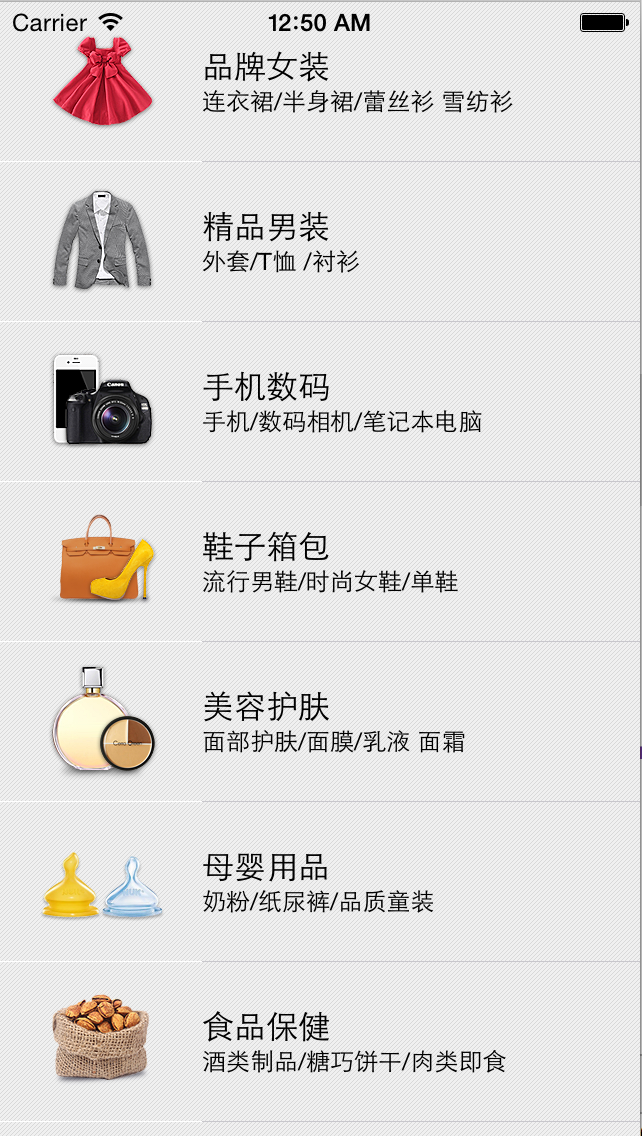
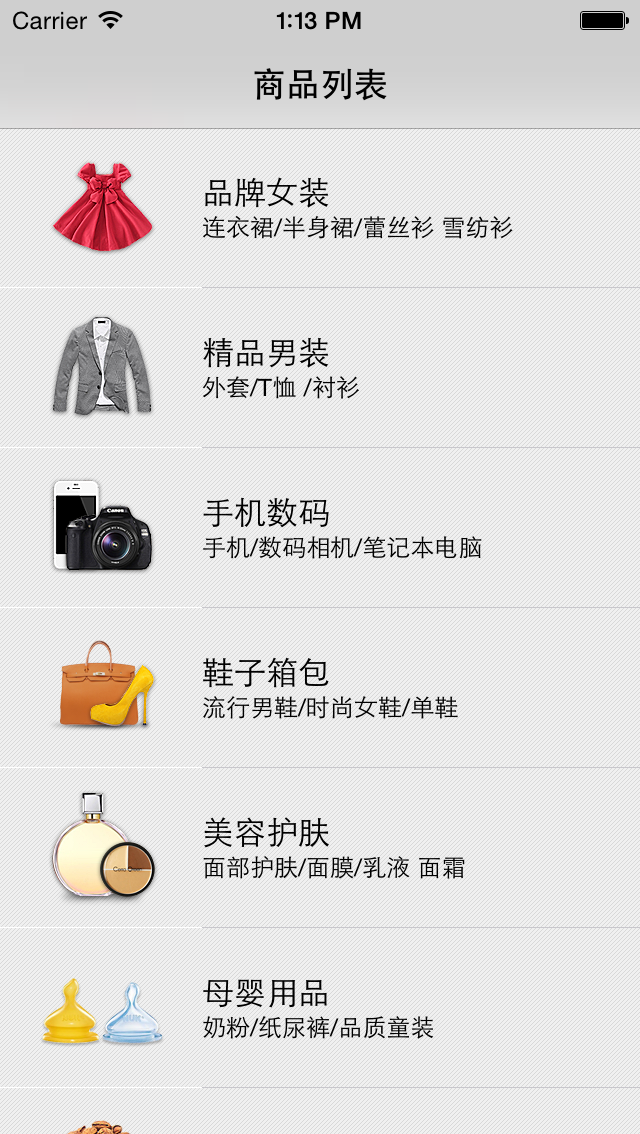
使用九宫格展示抽屉里数据

diff --git a/tianmao/Controller/ShopListViewController.m b/tianmao/Controller/ShopListViewController.m
@@ -8,10 +8,12 @@
 
 #import "ShopListViewController.h"
 #import "Shop.h"
+#import "ShopCell.h"
 
 #define kSubViewHeight 200
+#define kRow 3
 
-@interface ShopListViewController ()
+@interface ShopListViewController ()<ShopCellDelegate>
 
 @end
 
@@ -26,8 +28,8 @@
     CGRect frame = [UIScreen mainScreen].applicationFrame;
     
     self.tableView = [[UITableView alloc] initWithFrame:CGRectMake(0, 0, frame.size.width, kSubViewHeight) style:UITableViewStylePlain];
-    
-    NSLog(@"come here");
+    self.tableView.backgroundColor = [UIColor colorWithPatternImage:[UIImage imageNamed:@"tmall_bg_furley.png"]];
+    self.tableView.separatorStyle = UITableViewCellSeparatorStyleNone;
 }
 
 - (void)viewDidLoad {
@@ -37,26 +39,40 @@
 
 #pragma mark - UITableViewDataSource
 -(NSInteger)tableView:(UITableView *)tableView numberOfRowsInSection:(NSInteger)section{
-    return self.shopList.count;
+    return ((self.shopList.count + kColumn - 1) / kColumn);
 }
 
 -(UITableViewCell *)tableView:(UITableView *)tableView cellForRowAtIndexPath:(NSIndexPath *)indexPath{
     static NSString *cellId = @"cellId";
-    UITableViewCell *cell = [tableView dequeueReusableCellWithIdentifier:cellId];
+    ShopCell *cell = [tableView dequeueReusableCellWithIdentifier:cellId];
     if (cell == nil) {
-        cell = [[UITableViewCell alloc] initWithStyle:UITableViewCellStyleDefault reuseIdentifier:cellId];
+        cell = [[ShopCell alloc] initWithStyle:UITableViewCellStyleDefault reuseIdentifier:cellId];
+        cell.delegate = self;
     }
+
+    // 截出每一行所需要的Shop对象
+    NSInteger location = indexPath.row * kColumn;
+    NSInteger length = kColumn;
+    if (location + length >= self.shopList.count) {
+        length = self.shopList.count - location;
+    }
+    NSArray *parts = [self.shopList subarrayWithRange:NSMakeRange(location, length)];
     
-    Shop *s = self.shopList[indexPath.row];
-    cell.textLabel.text = s.name;
-    cell.imageView.image = s.image;
+    // 设置Shops和行号
+    [cell setShops:parts row:(int)indexPath.row];
     
     return cell;
 }
 
 #pragma mark - UITableViewDelegate
--(void)tableView:(UITableView *)tableView didSelectRowAtIndexPath:(NSIndexPath *)indexPath{
-    
+
+- (CGFloat)tableView:(UITableView *)tableView heightForRowAtIndexPath:(NSIndexPath *)indexPath {
+    return kShopCellHeight;
+}
+
+#pragma mark - ShopCellDelegate
+- (void)shop:(Shop *)shop clickAtRow:(int)row column:(int)column {
+    NSLog(@"%@ row:%i column:%i", shop.name, row, column);
 }
 
 - (void)didReceiveMemoryWarning {

diff --git a/tianmao/View/ShopCell.m b/tianmao/View/ShopCell.m
@@ -1,0 +1,56 @@
+//
+//  ShopCell.m
+//  tianmao
+//
+//  Created by dengwei on 16/1/17.
+//  Copyright (c) 2016年 dengwei. All rights reserved.
+//
+
+#import "ShopCell.h"
+#import "Shop.h"
+#import "ShopItem.h"
+
+#define kTagPrefix 10
+
+@implementation ShopCell
+
+- (id)initWithStyle:(UITableViewCellStyle)style reuseIdentifier:(NSString *)reuseIdentifier {
+    if (self = [super initWithStyle:style reuseIdentifier:reuseIdentifier]) {
+        CGFloat width = self.contentView.bounds.size.width / kColumn;
+        for (int i = 0; i < kColumn; i++) {
+            CGRect frame = CGRectMake(i * width, 0, width, kShopCellHeight);
+            ShopItem *item = [[ShopItem alloc] initWithFrame:frame];
+            item.tag = kTagPrefix + i;
+            item.column = i;
+            [item addTarget:self action:@selector(shopClick:) forControlEvents:UIControlEventTouchUpInside];
+            [self.contentView addSubview:item];
+        }
+        self.selectionStyle = UITableViewCellSelectionStyleNone; //不显示选中的样式
+        self.backgroundColor = [UIColor clearColor];
+    }
+    return self;
+}
+
+#pragma mark 监听商品点击
+- (void)shopClick:(ShopItem *)item {
+    if ([self.delegate respondsToSelector:@selector(shop:clickAtRow:column:)]) {
+        [self.delegate shop:item.shop clickAtRow:item.row column:item.column];
+    }
+}
+
+- (void)setShops:(NSArray *)shops row:(int)row{
+    NSUInteger count = shops.count;
+    
+    for (int i = 0; i < kColumn; i++) {
+        ShopItem *item = (ShopItem *)[self viewWithTag:kTagPrefix + i];
+        item.row = row;
+        if (i >= count) {
+            item.hidden = YES;
+        } else {
+            item.hidden = NO;
+            item.shop = [shops objectAtIndex:i];
+        }
+    }
+}
+
+@end

diff --git a/tianmao/View/ShopItem.m b/tianmao/View/ShopItem.m
@@ -1,0 +1,50 @@
+//
+//  ShopItem.m
+//  tianmao
+//
+//  Created by dengwei on 16/1/17.
+//  Copyright (c) 2016年 dengwei. All rights reserved.
+//
+
+#import "ShopItem.h"
+#import "Shop.h"
+
+#define kIconPercent 0.75
+#define kIconMargin 0.05
+
+@implementation ShopItem
+
+- (instancetype)initWithFrame:(CGRect)frame {
+    if (self = [super initWithFrame:frame]) {
+        // 图标
+        self.imageView.contentMode = UIViewContentModeScaleAspectFit;
+        
+        // 文字
+        self.titleLabel.font = [UIFont systemFontOfSize:10];
+        self.titleLabel.textAlignment = NSTextAlignmentCenter;
+    }
+    return self;
+}
+
+- (void)setShop:(Shop *)shop {
+    _shop = shop;
+    
+    // 图标
+    [self setImage:[UIImage imageNamed:shop.imageName] forState:UIControlStateNormal];
+    // 文字
+    [self setTitle:shop.name forState:UIControlStateNormal];
+}
+
+#pragma mark 设置图标的位置
+- (CGRect)imageRectForContentRect:(CGRect)contentRect {
+    CGFloat height = contentRect.size.height * (kIconPercent - kIconMargin);
+    
+    return CGRectMake(0, contentRect.size.height * kIconMargin, contentRect.size.width, height);
+}
+
+#pragma mark 设置文字的位置
+- (CGRect)titleRectForContentRect:(CGRect)contentRect {
+    return CGRectMake(0, contentRect.size.height * kIconPercent, contentRect.size.width, contentRect.size.height * (1 - kIconPercent));
+}
+
+@end

diff --git a/tianmao/Controller/MainViewController.m b/tianmao/Controller/MainViewController.m
@@ -11,20 +11,9 @@
 #import "FolderView.h"
 #import "ShopType.h"
 
-//#define kSubViewHeight 200
-
 static NSString *cellId = @"myCell";
 
 @interface MainViewController ()
-/**
- *  动画的表格行
- */
-//@property (nonatomic, strong) NSMutableArray *animationRows;
-
-/**
- *  子视图
- */
-//@property (nonatomic, strong) UIView *subView;
 
 @property (nonatomic, strong) NSArray *dataList;
 @end
@@ -41,10 +30,12 @@ static NSString *cellId = @"myCell";
     [super viewDidLoad];
     // Do any additional setup after loading the view, typically from a nib.
     
-//    UIView *subView = [[UIView alloc] initWithFrame:CGRectMake(0, 0, [UIScreen mainScreen].bounds.size.width, kSubViewHeight)];
-//    subView.backgroundColor = [UIColor lightGrayColor];
-//    //说明：能用addSubview方法吗？
-//    self.subView = subView;
+    // 设置标题
+    self.title = @"商品列表";    
+    // 设置导航栏背景
+    [[UINavigationBar appearance] setBackgroundImage:[UIImage imageNamed:@"topbg.png"] forBarMetrics:UIBarMetricsDefault];
+    // 设置状态栏
+    [UIApplication sharedApplication].statusBarStyle = UIBarStyleBlackOpaque;
     
     [self initDataList];
     

diff --git a/tianmao/View/ShopCell.h b/tianmao/View/ShopCell.h
@@ -1,0 +1,27 @@
+//
+//  ShopCell.h
+//  tianmao
+//
+//  Created by dengwei on 16/1/17.
+//  Copyright (c) 2016年 dengwei. All rights reserved.
+//
+
+#import <UIKit/UIKit.h>
+
+#define kShopCellHeight 70
+#define kColumn 4
+
+@class Shop;
+
+@protocol ShopCellDelegate <NSObject>
+
+- (void)shop:(Shop *)shop clickAtRow:(int)row column:(int)column;
+@end
+
+@interface ShopCell : UITableViewCell
+
+@property (nonatomic, weak) id<ShopCellDelegate> delegate;
+
+- (void)setShops:(NSArray *)shops row:(int)row;
+
+@end

diff --git a/tianmao/AppDelegate.m b/tianmao/AppDelegate.m
@@ -22,7 +22,8 @@
     self.window.backgroundColor = [UIColor whiteColor];
     
     MainViewController *viewController = [[MainViewController alloc] init];
-    self.window.rootViewController = viewController;
+    UINavigationController *nav = [[UINavigationController alloc] initWithRootViewController:viewController];
+    self.window.rootViewController = nav;
     
     [self.window makeKeyAndVisible];
     return YES;

diff --git a/tianmao/View/ShopItem.h b/tianmao/View/ShopItem.h
@@ -1,0 +1,18 @@
+//
+//  ShopItem.h
+//  tianmao
+//
+//  Created by dengwei on 16/1/17.
+//  Copyright (c) 2016年 dengwei. All rights reserved.
+//
+
+#import <UIKit/UIKit.h>
+
+@class Shop;
+@interface ShopItem : UIButton
+
+@property (nonatomic, assign) int row;
+@property (nonatomic, assign) int column;
+@property (nonatomic, strong) Shop *shop;
+
+@end

diff --git a/tianmao/Model/BaseModel.h b/tianmao/Model/BaseModel.h
@@ -12,6 +12,8 @@
 
 @property (nonatomic, strong) NSString *name;
 @property (nonatomic, strong) UIImage *image;
+@property (nonatomic, strong) NSString *imageName;
+@property (nonatomic, strong) NSString *imageUrl;
 
 -(instancetype)initWithDict:(NSDictionary *)dict;
 

diff --git a/tianmao/Model/BaseModel.m b/tianmao/Model/BaseModel.m
@@ -15,6 +15,8 @@
     if (self) {
         self.name = dict[@"name"];
         self.image = [UIImage imageNamed:dict[@"imageName"]];
+        self.imageName = dict[@"imageName"];
+        self.imageUrl = dict[@"imageUrl"];
     }
     return self;
 }
